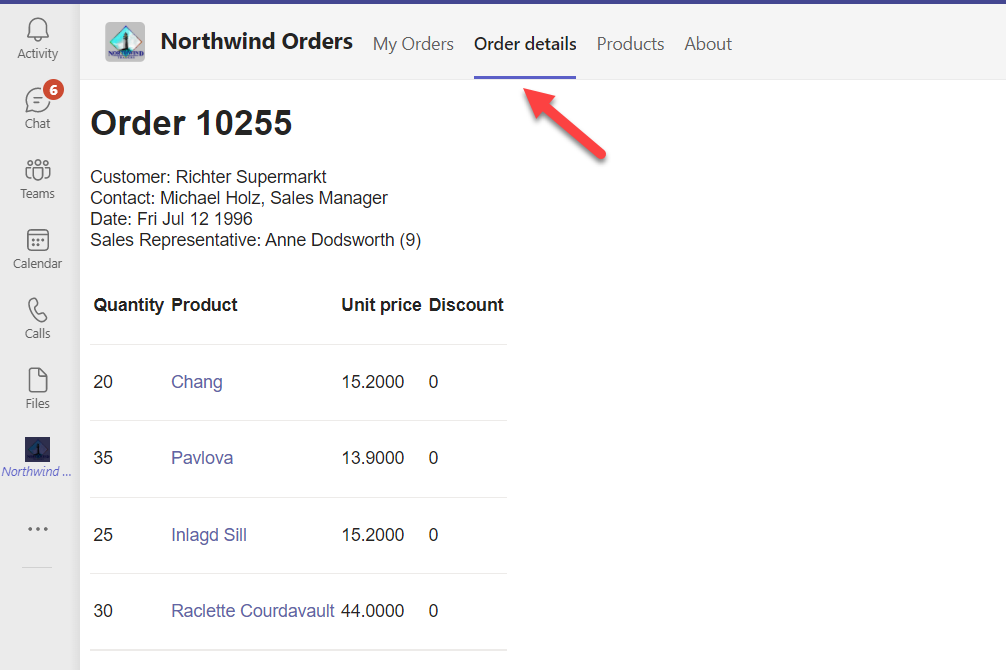
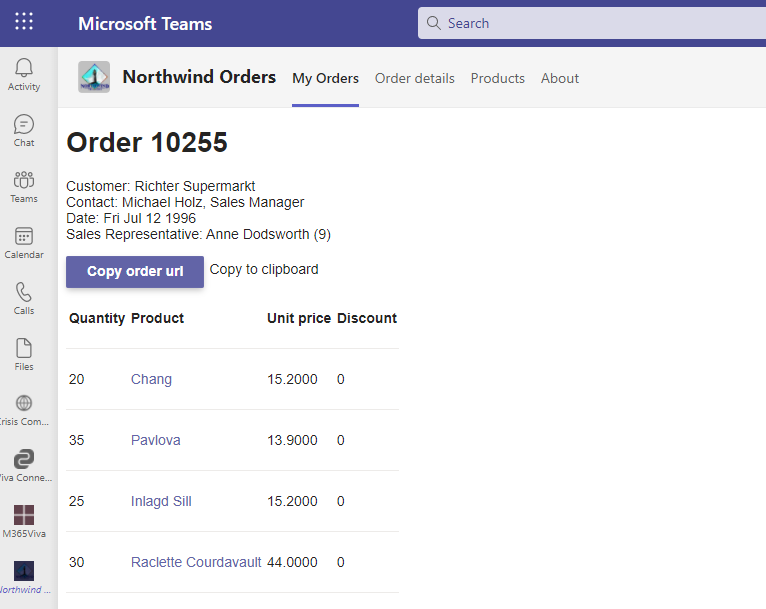
Updated lab to remove extra tab

diff --git a/src/extend-with-capabilities/aad/Deeplink/client/pages/myOrders.js b/src/extend-with-capabilities/aad/Deeplink/client/pages/myOrders.js
@@ -1,7 +1,7 @@
 import {
     getLoggedInEmployee
 } from '../identity/identityClient.js';
-
+import 'https://statics.teams.cdn.office.net/sdk/v1.11.0/js/MicrosoftTeams.min.js';
 async function displayUI() {
 
     const displayElement = document.getElementById('content');
@@ -9,25 +9,28 @@ async function displayUI() {
     const messageDiv = document.getElementById('message');
 
     try {
-        const employee = await getLoggedInEmployee();
-        if (employee) {
-            
-            displayElement.innerHTML = `
-                <h3>Orders for ${employee.displayName}<h3>
-            `;
-
-            employee.orders.forEach(order => {
-                const orderRow = document.createElement('tr');
-                orderRow.innerHTML = `<tr>
-                <td><a href="/pages/orderDetail.html?orderId=${order.orderId}">${order.orderId}</a></td>
-                <td>${(new Date(order.orderDate)).toDateString()}</td>
-                <td>${order.shipName}</td>
-                <td>${order.shipAddress}, ${order.shipCity} ${order.shipRegion || ''} ${order.shipPostalCode || ''} ${order.shipCountry}</td>
-            </tr>`;
-                ordersElement.append(orderRow);
-
+        microsoftTeams.initialize(async () => {
+            microsoftTeams.getContext(async (context) => {                
+                if (context.subEntityId) {
+                    window.location.href = `/pages/orderDetail.html?orderId=${context.subEntityId}`;
+                } else {
+                    const employee = await getLoggedInEmployee();
+                    if (employee) {
+                        displayElement.innerHTML = `<h3>Orders for ${employee.displayName}<h3>`;
+                        employee.orders.forEach(order => {
+                        const orderRow = document.createElement('tr');
+                        orderRow.innerHTML = `<tr>
+                            <td><a href="/pages/orderDetail.html?orderId=${order.orderId}">${order.orderId}</a></td>
+                            <td>${(new Date(order.orderDate)).toDateString()}</td>
+                            <td>${order.shipName}</td>
+                            <td>${order.shipAddress}, ${order.shipCity} ${order.shipRegion || ''} ${order.shipPostalCode || ''} ${order.shipCountry}</td>
+                            </tr>`;
+                            ordersElement.append(orderRow);
+                        });
+                    }
+                }
             });
-        }
+        });
     }
     catch (error) {            // If here, we had some other error
         messageDiv.innerText = `Error: ${JSON.stringify(error)}`;

diff --git a/src/extend-with-capabilities/aad/Deeplink/client/pages/orderDetail.js b/src/extend-with-capabilities/aad/Deeplink/client/pages/orderDetail.js
@@ -29,7 +29,6 @@ async function displayUI() {
                     ${order.employeeTitle}: ${order.employeeName} (${order.employeeId})
                     </p>
                 `;
-
             order.details.forEach(item => {
                 const orderRow = document.createElement('tr');
                 orderRow.innerHTML = `<tr>
@@ -49,7 +48,7 @@ async function displayUI() {
                         var textarea = document.createElement("textarea");
                         const encodedContext = encodeURI(`{"subEntityId": "${order.orderId}"}`);                            
                         //form the deeplink                       
-                        const deeplink = `https://teams.microsoft.com/l/entity/${env.TEAMS_APP_ID}/OrderDetails?&context=${encodedContext}`;
+                        const deeplink = `https://teams.microsoft.com/l/entity/${env.TEAMS_APP_ID}/Orders?&context=${encodedContext}`;
                         textarea.value = deeplink;
                         document.body.appendChild(textarea);
                         textarea.select();

diff --git a/src/extend-with-capabilities/aad/Deeplink/server/server.js b/src/extend-with-capabilities/aad/Deeplink/server/server.js
@@ -3,7 +3,7 @@ import dotenv from 'dotenv';
 import cookieParser from 'cookie-parser';
 
 import {
-  initializeIdentityService,getTeamsAppId
+  initializeIdentityService
 } from './identityService.js';
 import {
   getEmployee,

diff --git a/lab-instructions/aad/Deeplink.md b/lab-instructions/aad/Deeplink.md
@@ -161,104 +161,67 @@ In the `copyUrlElement.addEventListener()` what goes on is explained next.
 The new tab is the entity and it's **entityId** will be defined in the manifest file (In the next section), the entityId here is `OrderDetails`.
 This enables the teams application to understand which tab (entityId) is to be opened and what parameter(subEntityId) is to be passed to display information.
 
-**4. manifest\manifest.template.json**
+**4. client\myOrders.js**
 
-Add a new static tab entry in the manifest to show the order details to navigate using the deeplink.
-Paste below code after `Orders`
+Add import statement for Microsoft Teams SDK. 
 
-```json
-{
-      "entityId": "OrderDetails",
-      "name": "Order details",
-      "contentUrl": "https://<HOSTNAME>/pages/orderDetail.html",
-      "websiteUrl": "https://<HOSTNAME>/pages/orderDetail.html",
-      "scopes": [
-        "personal"
-      ]
-    },
+```javascript
+import 'https://statics.teams.cdn.office.net/sdk/v1.11.0/js/MicrosoftTeams.min.js';
 ```
-Finished manifest looks like this:
-<pre>
-{
-  "$schema": "https://developer.microsoft.com/en-us/json-schemas/teams/v1.8/MicrosoftTeams.schema.json",
-  "manifestVersion": "1.8",
-  "version": "1.9.0",
-  "id": "&lt;TEAMS_APP_ID&gt;",
-  "packageName": "io.github.officedev.teamsappcamp1.northwind",
-  "developer": {
-    "name": "Northwind Traders",
-    "websiteUrl": "https://&lt;HOSTNAME&gt;/",
-    "privacyUrl": "https://&lt;HOSTNAME&gt;/privacy.html",
-    "termsOfUseUrl": "https://&lt;HOSTNAME&gt;/termsofuse.html"
-  },
-  "icons": {
-      "color": "northwind192.png",
-      "outline": "northwind32.png"
-  },
-  "name": {
-    "short": "Northwind Orders",
-    "full": "Northwind Traders Order System"
-  },
-  "description": {
-    "short": "Sample enterprise app using the Northwind Traders sample database",
-    "full": "Simple app to demonstrate porting a SaaS app to Microsoft Teams"
-  },
-  "accentColor": "#FFFFFF",
-  "configurableTabs": [
-    {
-        "configurationUrl": "https://&lt;HOSTNAME&gt;/pages/tabConfig.html",
-        "canUpdateConfiguration": true,
-        "scopes": [
-            "team",
-            "groupchat"
-        ]
+
+Using the `My Orders` tab as the base, we will redirect the deeplink to `Order details` page to show the order only if the **subEntitiyId** is present in the teams context.
+Add an *if* condition in the function displayUI() after getting the teams context.
+
+```javascript
+ microsoftTeams.initialize(async () => {
+            microsoftTeams.getContext(async (context) => {                
+                if (context.subEntityId) {
+                    window.location.href = `/pages/orderDetail.html?orderId=${context.subEntityId}`;
+                } else { //..rest of the code
+              }});});
+
+```
+
+The updated function definition looks like below:
+
+```javascript
+async function displayUI() {
+
+    const displayElement = document.getElementById('content');
+    const ordersElement = document.getElementById('orders');
+    const messageDiv = document.getElementById('message');
+
+    try {
+        microsoftTeams.initialize(async () => {
+            microsoftTeams.getContext(async (context) => {                
+                if (context.subEntityId) {
+                    window.location.href = `/pages/orderDetail.html?orderId=${context.subEntityId}`;
+                } else {
+                    const employee = await getLoggedInEmployee();
+                    if (employee) {
+                        displayElement.innerHTML = `<h3>Orders for ${employee.displayName}<h3>`;
+                        employee.orders.forEach(order => {
+                        const orderRow = document.createElement('tr');
+                        orderRow.innerHTML = `<tr>
+                            <td><a href="/pages/orderDetail.html?orderId=${order.orderId}">${order.orderId}</a></td>
+                            <td>${(new Date(order.orderDate)).toDateString()}</td>
+                            <td>${order.shipName}</td>
+                            <td>${order.shipAddress}, ${order.shipCity} ${order.shipRegion || ''} ${order.shipPostalCode || ''} ${order.shipCountry}</td>
+                            </tr>`;
+                            ordersElement.append(orderRow);
+                        });
+                    }
+                }
+            });
+        });
     }
-],
-"staticTabs": [
-    {
-      "entityId": "Orders",
-      "name": "My Orders",
-      "contentUrl": "https://&lt;HOSTNAME&gt;/pages/myOrders.html",
-      "websiteUrl": "https://&lt;HOSTNAME&gt;/pages/myOrders.html",
-      "scopes": [
-        "personal"
-      ]
-    },
-<b>
-    {
-      "entityId": "OrderDetails",
-      "name": "Order details",
-      "contentUrl": "https://&ltHOSTNAME&gt;/pages/orderDetail.html",
-      "websiteUrl": "https://&ltHOSTNAME&gt;/pages/orderDetail.html",
-      "scopes": [
-        "personal"
-      ]
-    },
-</b>
-    {
-      "entityId": "Products",
-      "name": "Products",
-      "contentUrl": "https://&lt;HOSTNAME&gt;/pages/categories.html",
-      "websiteUrl": "https://&lt;HOSTNAME&gt;/pages/categories.html",
-      "scopes": [
-        "personal"
-      ]
+    catch (error) {            // If here, we had some other error
+        messageDiv.innerText = `Error: ${JSON.stringify(error)}`;
     }
-  ],
-  "showLoadingIndicator": false,
-  "permissions": [
-      "identity",
-      "messageTeamMembers"
-  ],
-  "validDomains": [
-      "&lt;HOSTNAME&gt;"
-  ],
-  "webApplicationInfo": {
-      "id": "&lt;CLIENT_ID&gt;",
-      "resource": "api://&lt;HOSTNAME>/&lt;CLIENT_ID&gt;"
-  }
 }
-</pre>
+```
+
+**5. manifest\manifest.template.json**
 
 Update the version number so it's greater than it was; for example if your manifest was version 1.4, make it 1.4.1 or 1.5.0. This is required in order for you to update the app in Teams.
 
